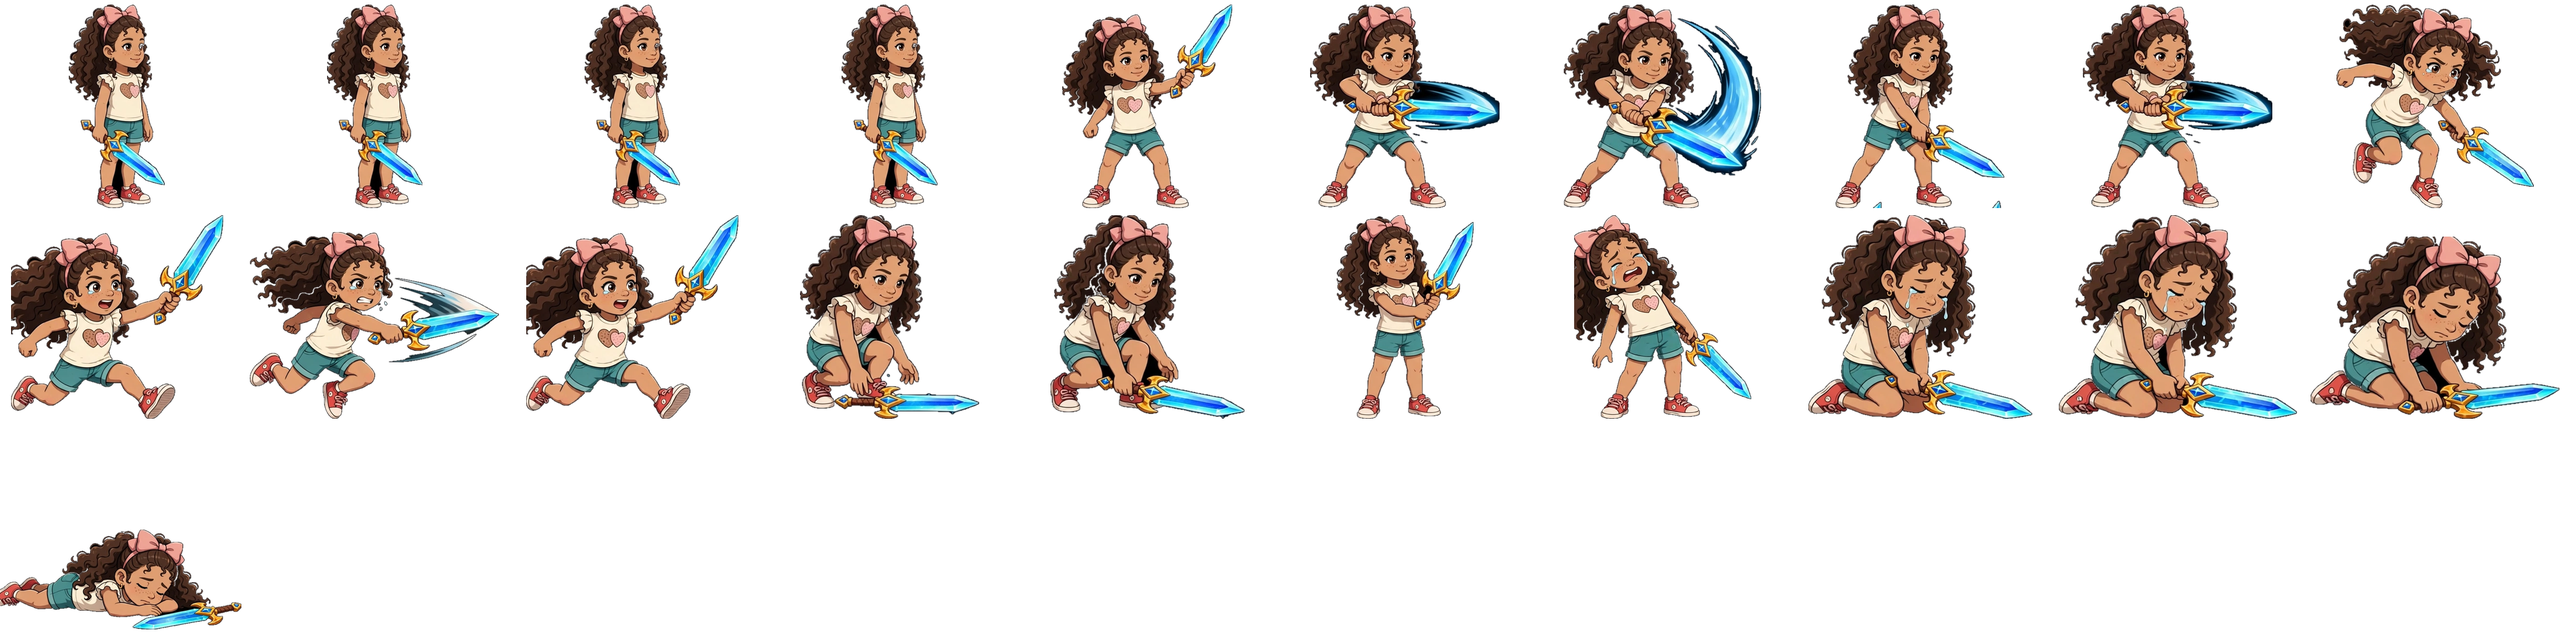
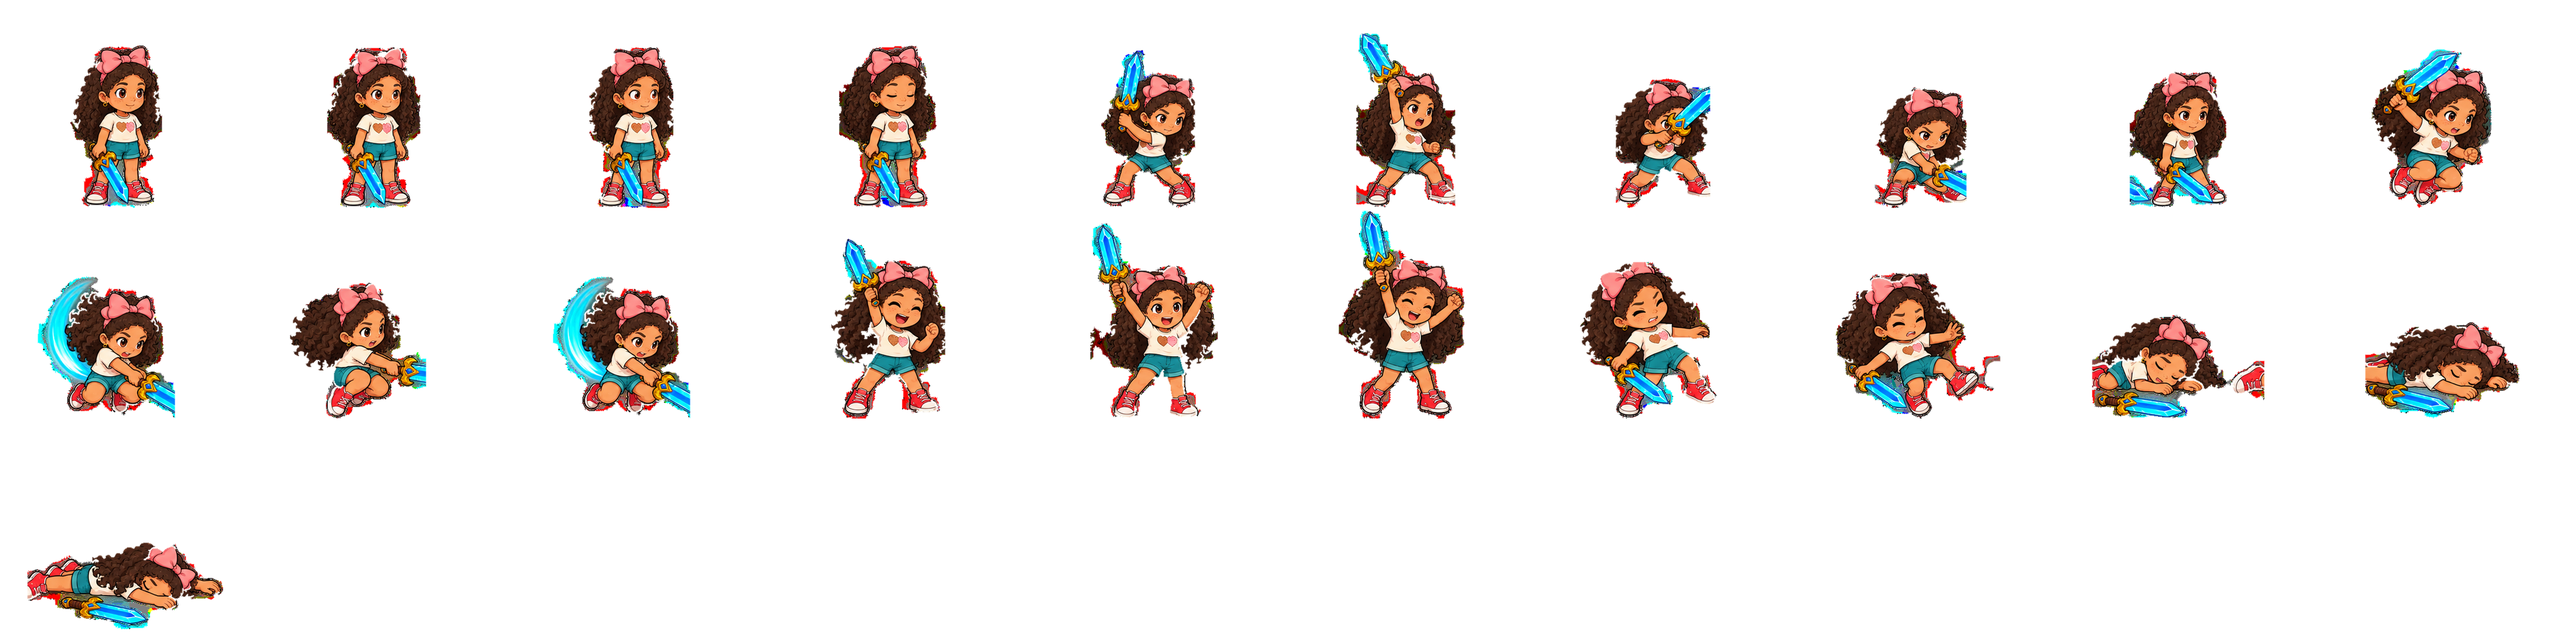
Sword sheet from ChatGPT take (Angelo-directed): same canonical Angely, crystal sword, 21 poses on exact grid; sword scale factor back to 1.0

diff --git a/src/entities/Player.ts b/src/entities/Player.ts
@@ -102,7 +102,7 @@ export class Player {
       // 250px) / each sheet's measured body height, so Angely renders the SAME size
       // with every weapon: sword 310px, bow 198px, boomerang 209px, wand 220px,
       // hammer 241px, ray 235px.
-      angely_sword: scaleForHeight("angely", HEIGHT, "idle") * 0.806,
+      angely_sword: scaleForHeight("angely", HEIGHT, "idle"), // ChatGPT take 2026-10-21: body canonical 250
       angely_bow: scaleForHeight("angely", HEIGHT, "idle") * 1.263,
       angely_hammer: scaleForHeight("angely", HEIGHT, "idle") * 1.037,
       angely_boomerang: scaleForHeight("angely", HEIGHT, "idle") * 1.196,
